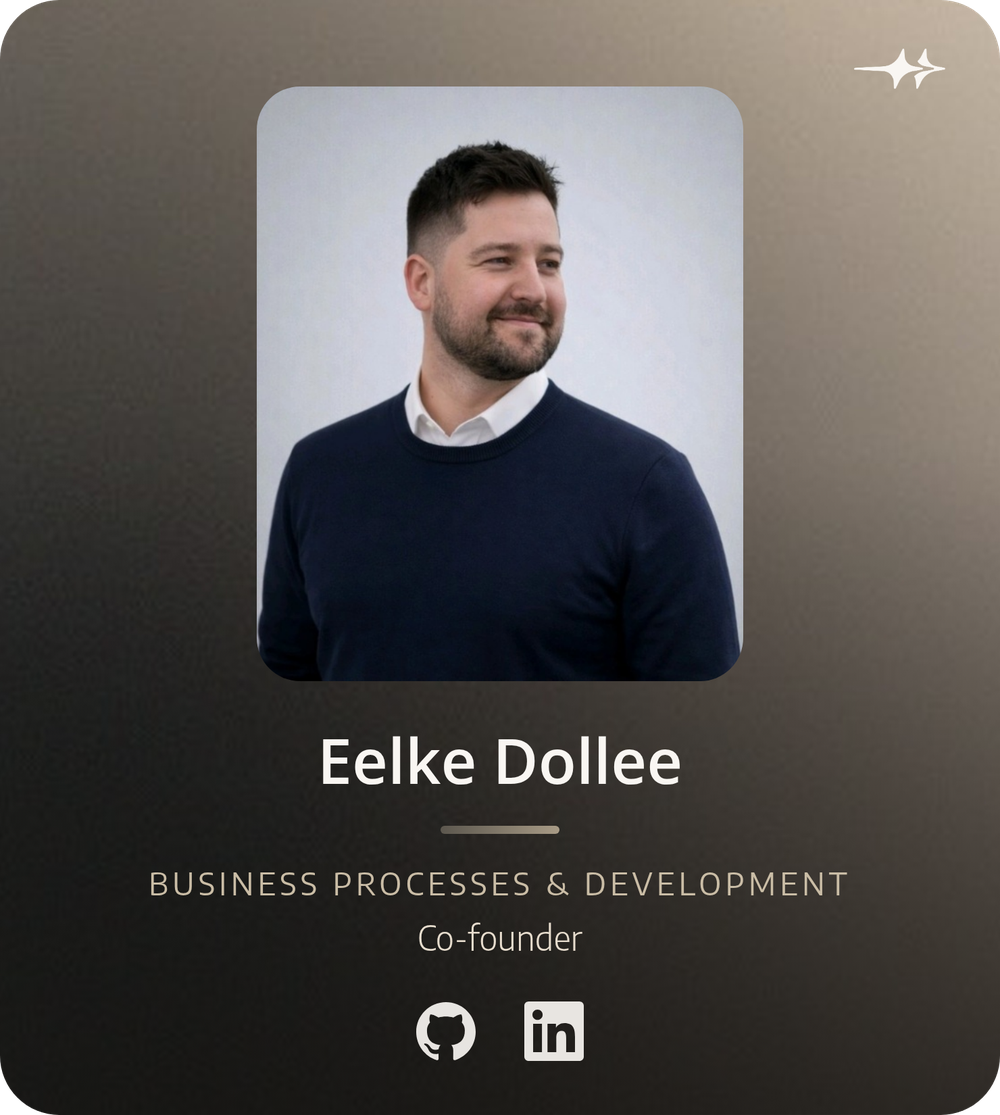
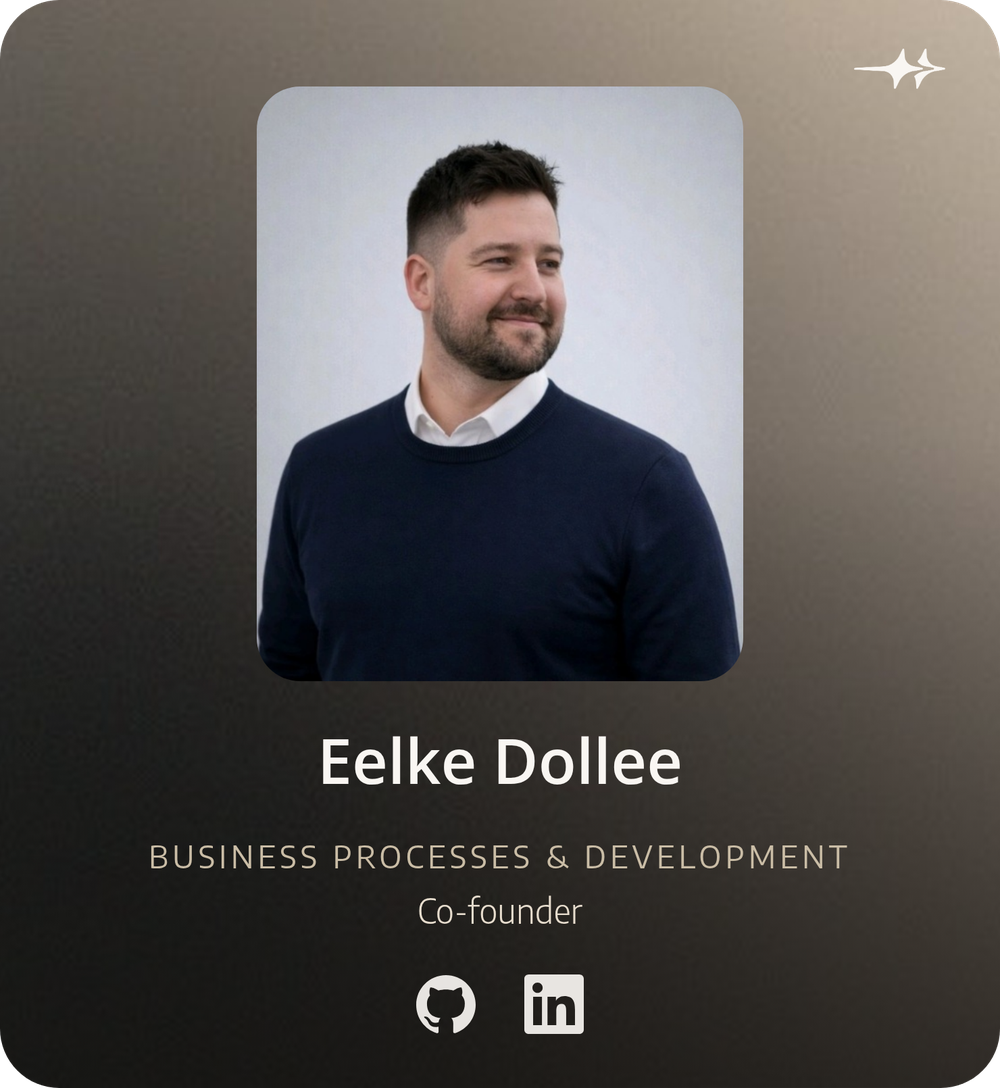
TWEAK cards + footer: remove name underline, align footer link
- Drop the small gradient underline under each name on the team cards.
- Footer impertio.nl link uses align=absmiddle so it sits on the text baseline.

diff --git a/profile/README.md b/profile/README.md
@@ -38,5 +38,5 @@ Standard where possible, custom where it matters. We run it as managed cloud on 
 <p align="center"><a href="https://github.com/FreekHeijting"><img src="https://raw.githubusercontent.com/Impertio-Studio/.github/main/profile/team/card-freek.png" width="32%" alt="Freek Heijting, Founder"/></a><img src="https://raw.githubusercontent.com/Impertio-Studio/.github/main/profile/team/spacer.png" width="1%" alt=""/><a href="https://github.com/Dollee-404"><img src="https://raw.githubusercontent.com/Impertio-Studio/.github/main/profile/team/card-eelke.png" width="32%" alt="Eelke Dollee, Co-founder"/></a><img src="https://raw.githubusercontent.com/Impertio-Studio/.github/main/profile/team/spacer.png" width="1%" alt=""/><!-- Rens van Driel: slot reserved with a transparent placeholder so the row keeps three-card width and stays aligned with the banner. The card widths are percentages so the row scales with the column, exactly like the banner. To make Rens visible, replace the placeholder <img> below with: <a href="https://github.com/RensGits"><img src="https://raw.githubusercontent.com/Impertio-Studio/.github/main/profile/team/card-rens.png" width="32%" alt="Rens van Driel, Co-founder"/></a> --><img src="https://raw.githubusercontent.com/Impertio-Studio/.github/main/profile/team/card-placeholder.png" width="32%" alt=""/></p>
 
 <p align="center">
-  <sub><b>Impertio Studio B.V.</b> &middot; Dordrecht, Netherlands &middot; <a href="https://www.impertio.nl"><picture><source media="(prefers-color-scheme: dark)" srcset="https://raw.githubusercontent.com/Impertio-Studio/.github/main/profile/link-impertio-light.png"/><img src="https://raw.githubusercontent.com/Impertio-Studio/.github/main/profile/link-impertio-dark.png" alt="impertio.nl" height="15" align="middle"/></picture></a></sub>
+  <sub><b>Impertio Studio B.V.</b> &middot; Dordrecht, Netherlands &middot; <a href="https://www.impertio.nl"><picture><source media="(prefers-color-scheme: dark)" srcset="https://raw.githubusercontent.com/Impertio-Studio/.github/main/profile/link-impertio-light.png"/><img src="https://raw.githubusercontent.com/Impertio-Studio/.github/main/profile/link-impertio-dark.png" alt="impertio.nl" height="15" align="absmiddle"/></picture></a></sub>
 </p>
